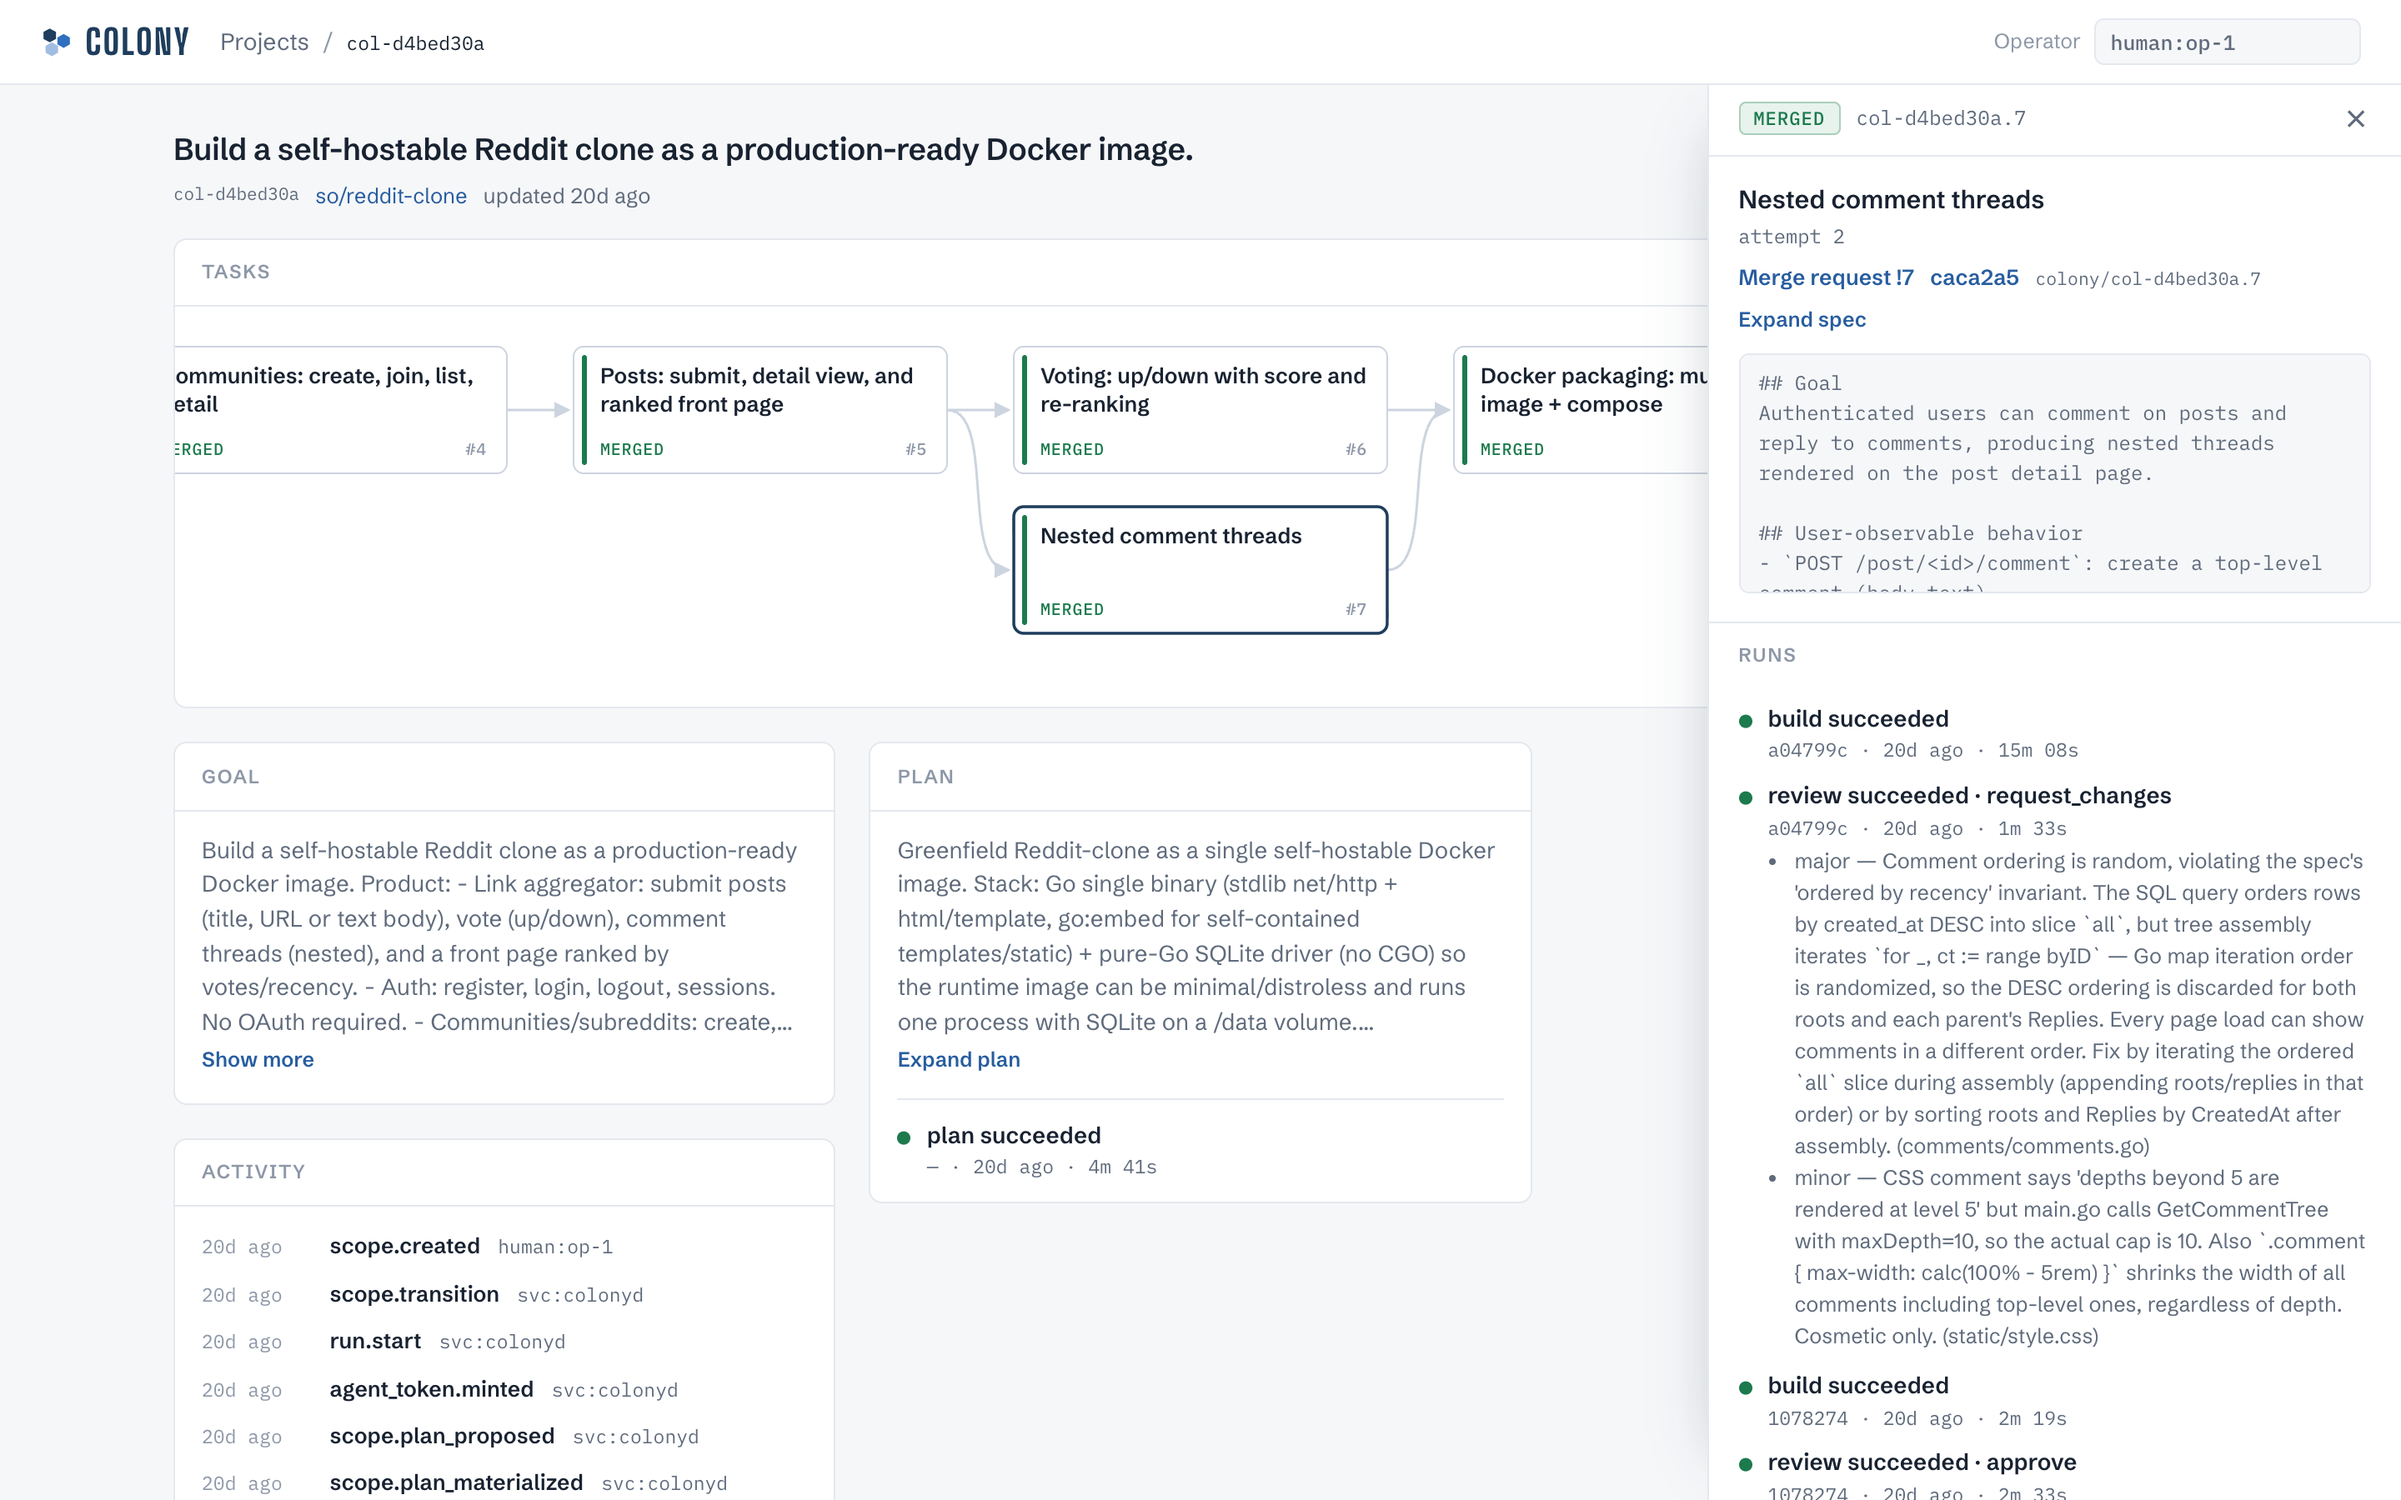
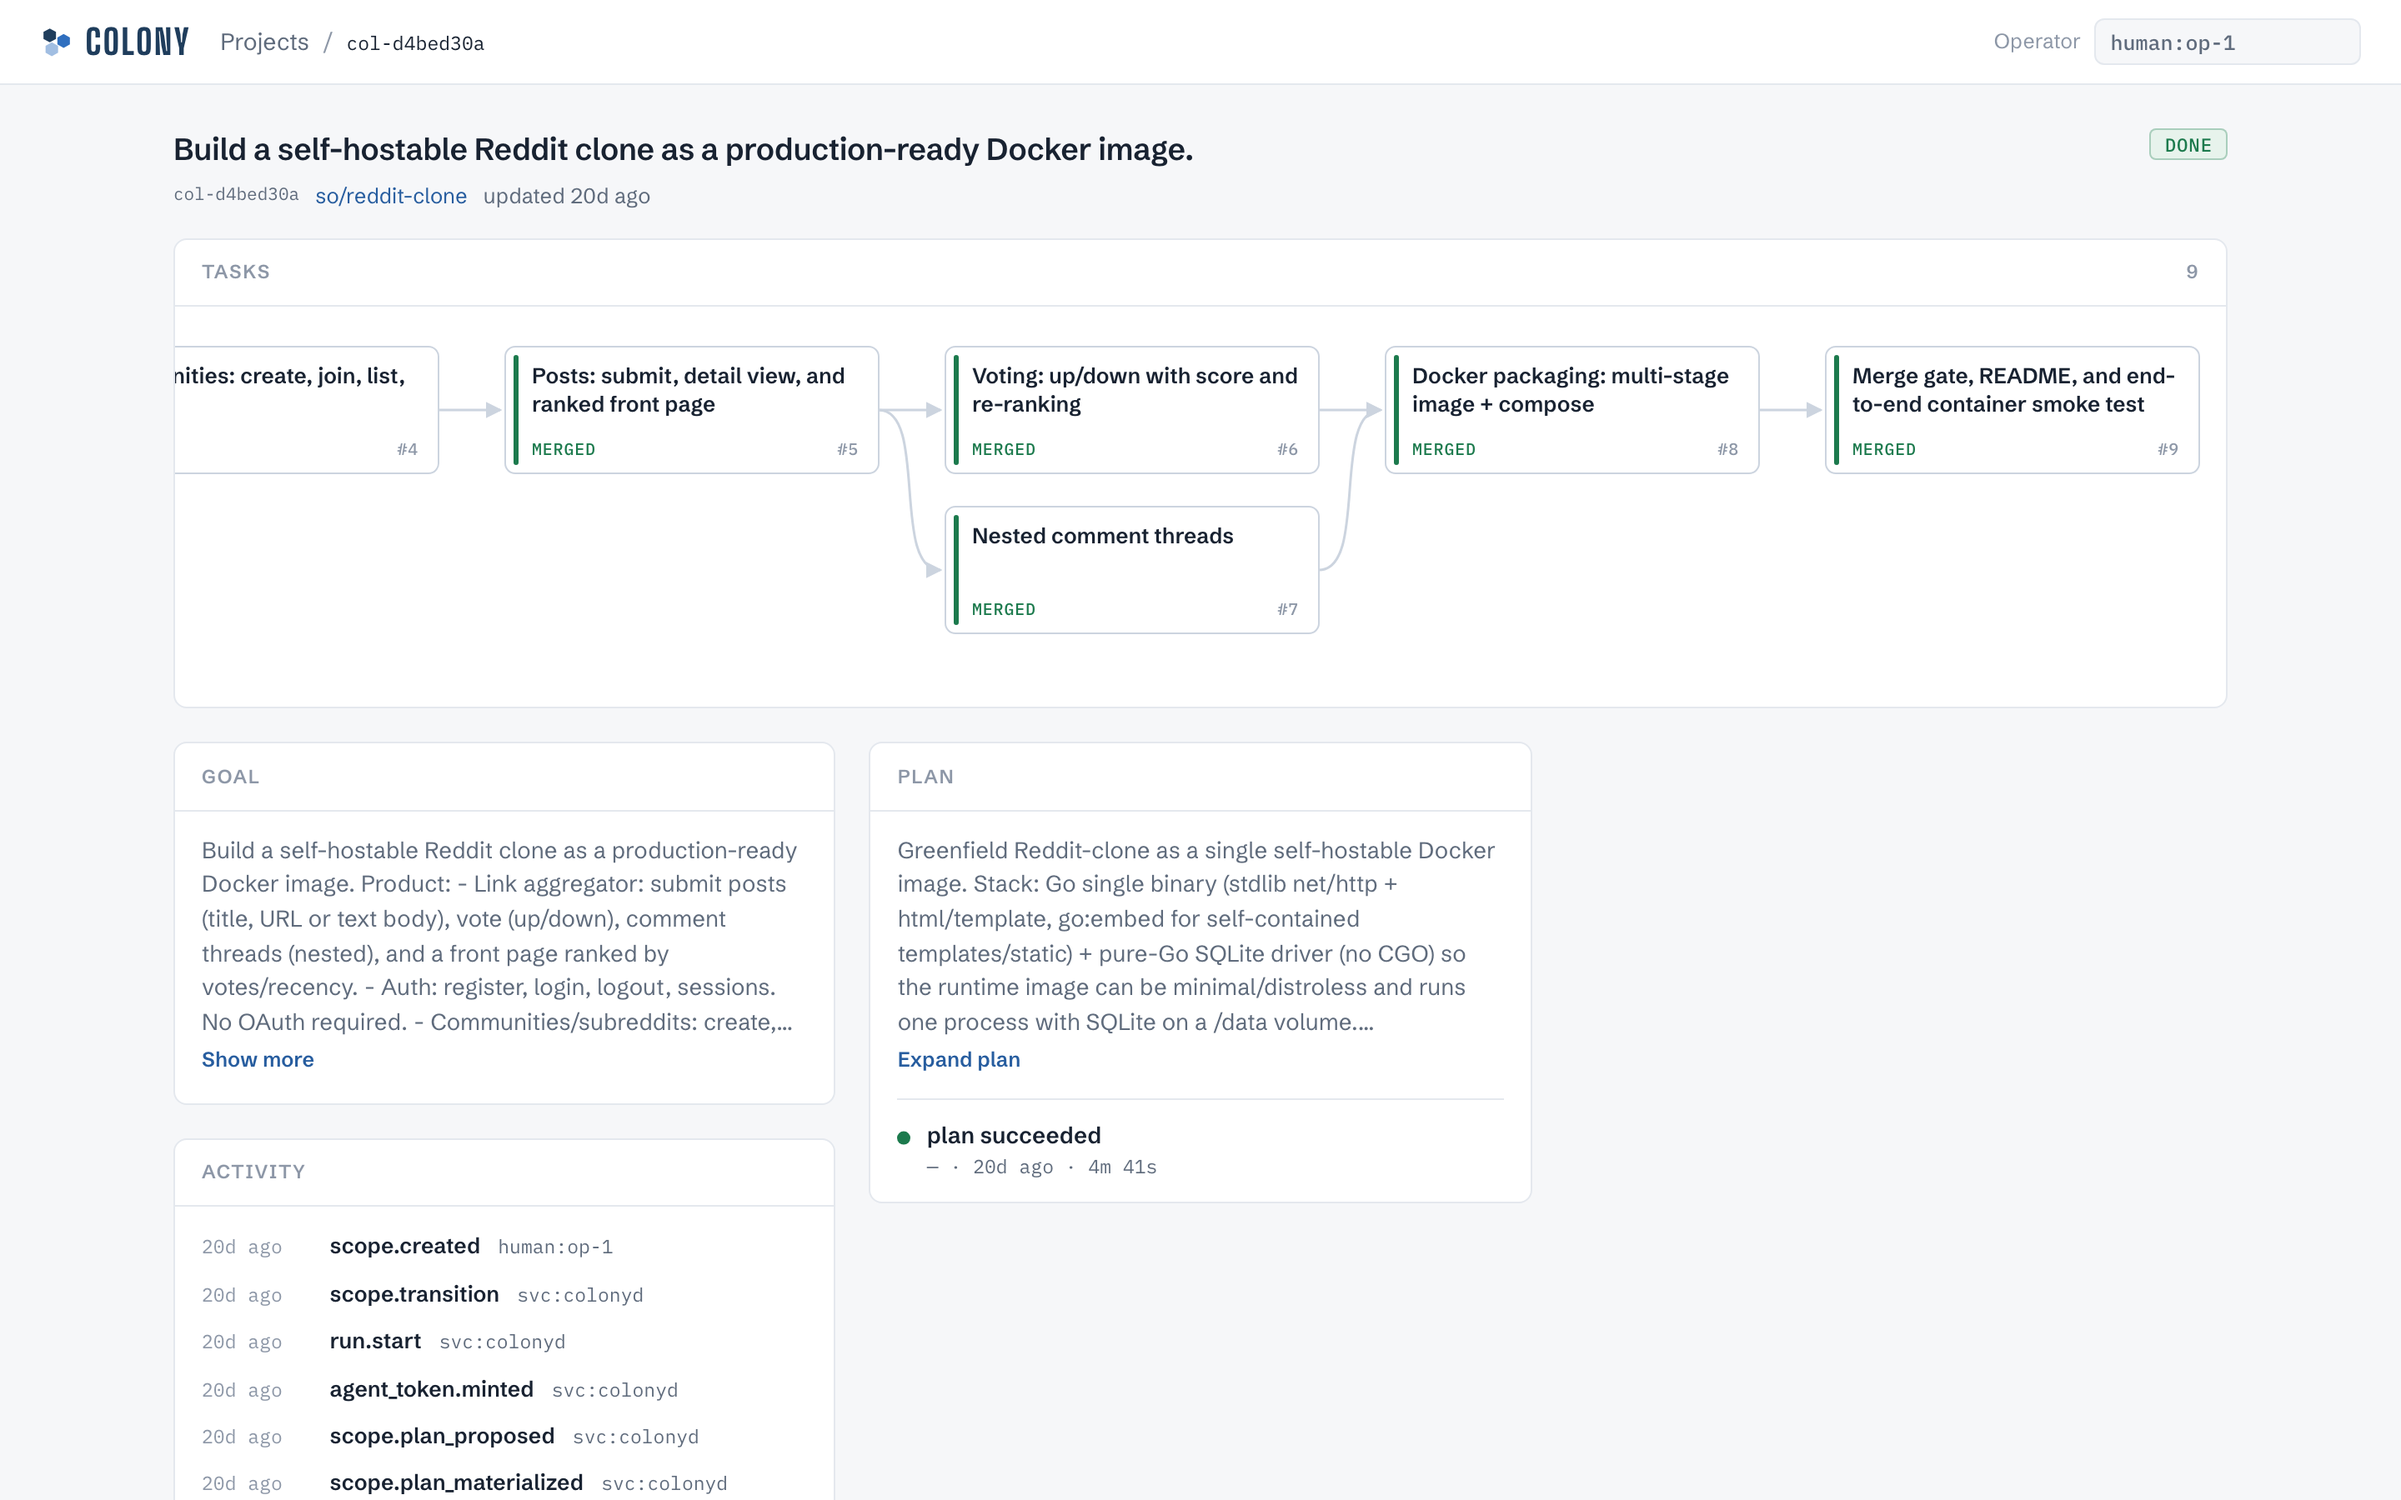
docs: README example replays the scope from its audit log
scope-replay.gif is the real console rendered at each of the 48
state-changing audit events of col-d4bed30a, served through a proxy that
answers /scopes/:id and /audit as of event N. Nothing is synthesized.
Intro screenshot is the full sheet with the DAG scrolled to the fork;
the duplicate in the example is gone.

diff --git a/README.md b/README.md
@@ -13,7 +13,7 @@ unblock tasks, and answer when the architect cannot.
 host. It is operated from a web console, a terminal UI, a CLI, or the HTTP
 API.
 
-![A finished scope in the console: the goal, and the nine-task dependency graph the architect planned for it, every task merged](docs/images/scope-top.png)
+![The scope sheet: the goal, the task graph by dependency with each node in its terminal state, the architect's plan, and the audit feed](docs/images/scope-sheet.png)
 
 [![status](https://img.shields.io/badge/status-early%20access-orange)](#status)
 [![license](https://img.shields.io/badge/license-TBD-lightgrey)](#license)
@@ -65,18 +65,18 @@ in parallel:
                                                            └─ 7 comments ─┘
 ```
 
+![The scope sheet replayed from the audit log: tasks move queued, running, mr_open, merged along the graph; task 1 blocks on the 401 and is unblocked; 6 and 7 run in parallel; the scope ends done](docs/images/scope-replay.gif)
+
+The console at each of the 48 state changes in the audit log, in order.
+Task 1 blocks after three `401`s and waits for the operator. Tasks 6 and 7
+run at the same time; 7 is sent back twice.
+
 **Result.** 9 merge requests merged. 39 runs: 1 architect, 14 implement,
 11 review, 13 gate. Task 9's gate ran `docker build` and the smoke test
 against the merged tree (scope-level acceptance runs did not exist yet).
 174 audit events, 2 human: `scope.created`, and one `unblock` after
 GitLab returned `401` on the first merge three times and the operator
 replaced the token.
-
-![Scope sheet: the task graph across the top, with goal, plan, and activity cards beneath](docs/images/scope-sheet.png)
-
-The scope sheet: task graph by dependency, each node in its terminal
-state; the goal, the architect's plan and run, and the audit feed. Every
-operator action is a button here and an audit row with your actor id.
 
 ![Task drawer: spec, merge request, and the run history including a reviewer's request_changes finding](docs/images/task-drawer.png)
 
